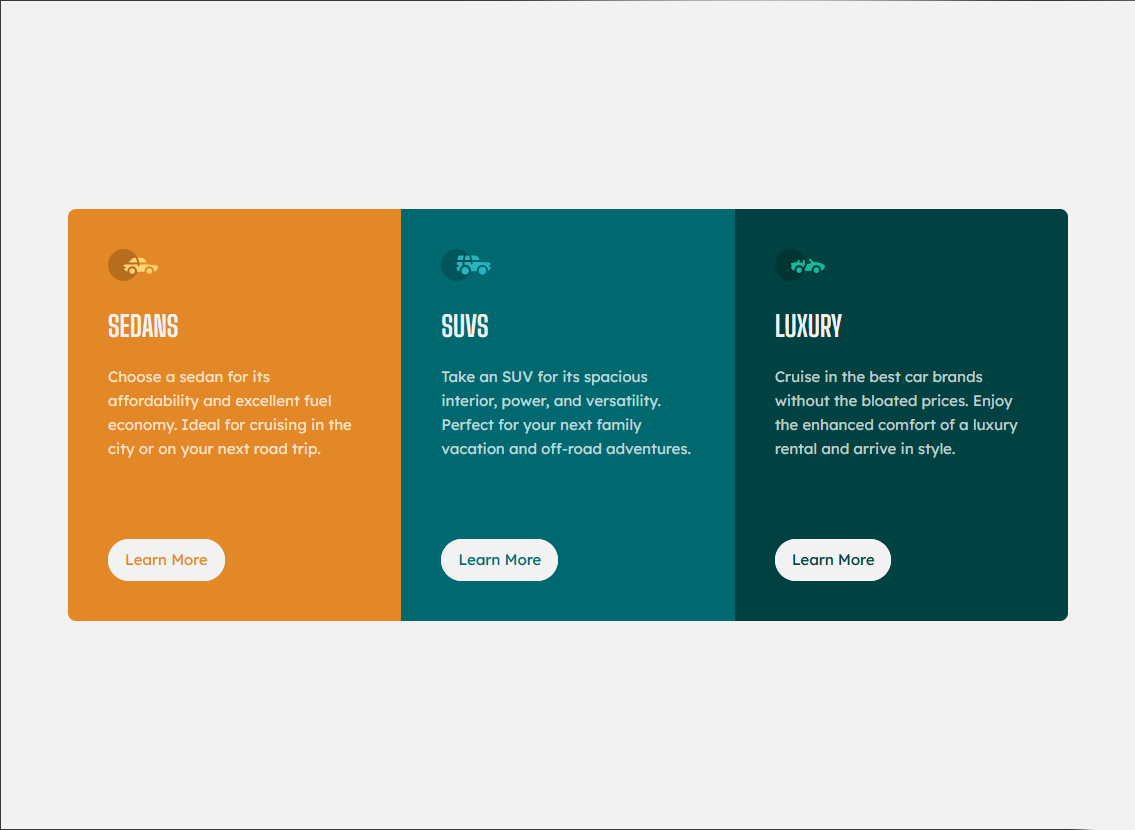
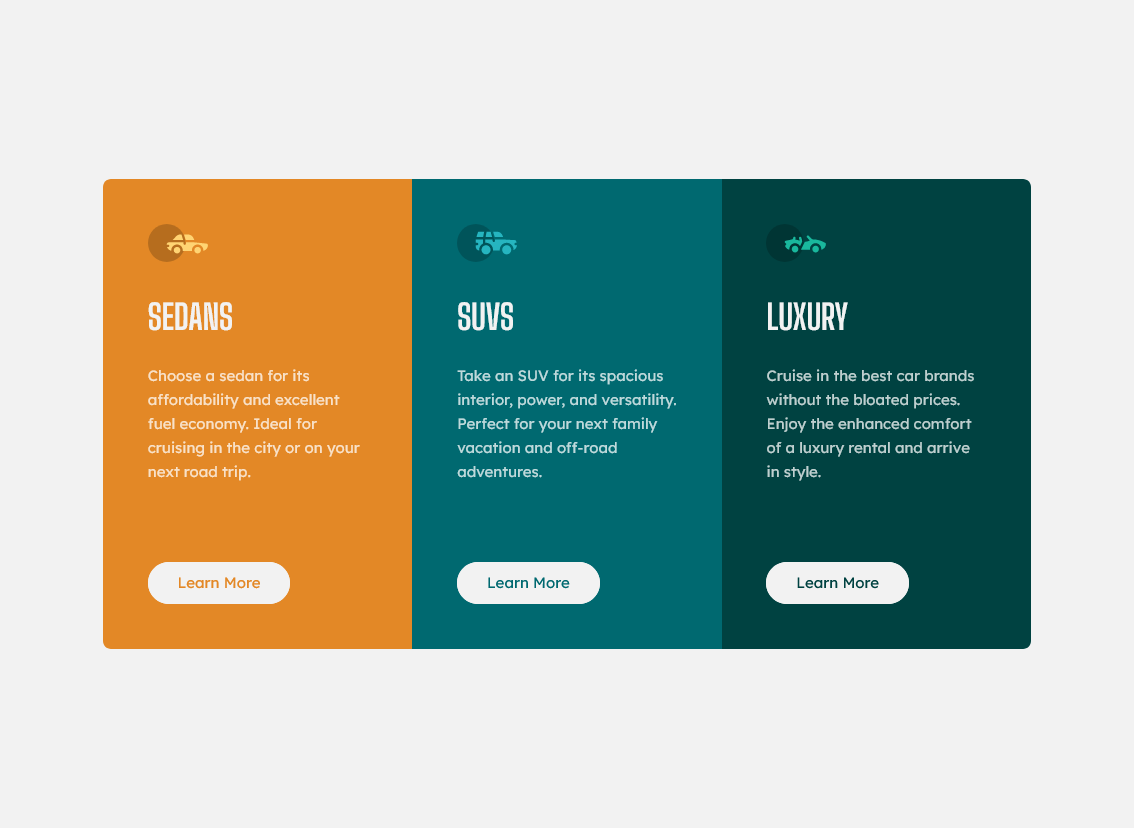
+ Ajustes generales de estilo.

Changed region(s): [[0.0617, 0.2114, 0.9568, 0.785], [0.0, 0.9964, 0.9568, 1.0]]

diff --git a/css/style.css b/css/style.css
@@ -11,7 +11,7 @@
   --font-family-primary: 'Lexend Deca', sans-serif;
   --font-family-secondary: 'Big Shoulders Display', cursive;
 
-  --padding: 2.5rem;
+  --padding: 2.8rem;
   --border-radius: .5rem
 }
 
@@ -42,10 +42,10 @@ p{
 
 h2{
   color: var(--very-light-gray);
-  font-size: calc(var(--font-size) * 1.9);
+  font-size: calc(var(--font-size) * 2.3);
   text-transform: uppercase;
   font-family: var(--font-family-secondary);
-  padding: calc(var(--padding) / 1.5) 0;
+  padding: calc(var(--padding) * .8) 0;
 }
 
 .main-container{
@@ -126,7 +126,7 @@ h2{
     }
 
 .card-cta{
-  padding: .5rem 1rem;
+  padding: .5rem 1.8rem;
   display: inline-block;
   margin: 0;
   
@@ -156,7 +156,7 @@ h2{
   .card-multiple{
     -ms-grid-columns: (1fr);
     grid-template-columns: repeat(3, 1fr);
-    max-width: 1000px;
+    max-width: 928px;
   }
   
     .card-single{
@@ -172,5 +172,9 @@ h2{
     .card-multiple .card-single:last-child{
       border-top-right-radius: var(--border-radius);
       border-bottom-right-radius: var(--border-radius);
+    }
+
+    .card-footer{
+      padding-top: calc(var(--padding) * 1.2);
     }
 }

diff --git a/index.html b/index.html
@@ -18,7 +18,7 @@
       <section class="card-single card-sedan">
         <div class="card-content">
           <header>
-            <img src="images/icon-sedans.svg" alt="Icono" class="card-icon" width="50">
+            <img src="images/icon-sedans.svg" alt="Icono" class="card-icon" width="60">
             <h2 class="card-title">Sedans</h2>
           </header>
 
@@ -32,7 +32,7 @@
       <section class="card-single card-suvs">
         <div class="card-content">
           <header>
-            <img src="images/icon-suvs.svg" alt="Icono" class="card-icon" width="50">
+            <img src="images/icon-suvs.svg" alt="Icono" class="card-icon" width="60">
             <h2 class="card-title">SUVs</h2>
           </header>
 
@@ -46,7 +46,7 @@
       <section class="card-single card-luxury">
         <div class="card-content">
           <header>
-            <img src="images/icon-luxury.svg" alt="Icono" class="card-icon" width="50">
+            <img src="images/icon-luxury.svg" alt="Icono" class="card-icon" width="60">
             <h2 class="card-title">Luxury</h2>
           </header>
 
